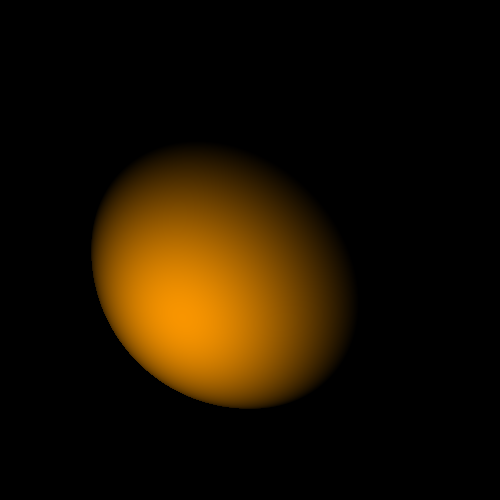
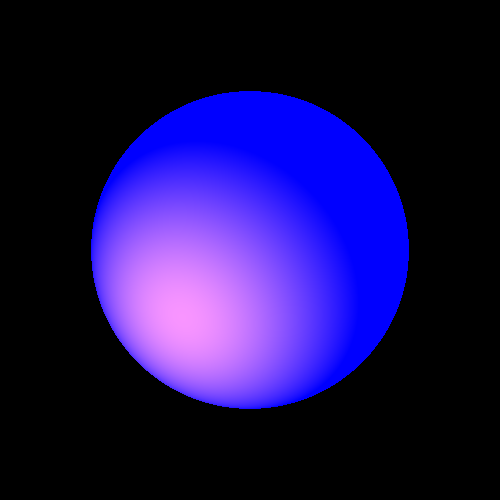
ci

diff --git a/src/renderer/RayTracerBasic.java b/src/renderer/RayTracerBasic.java
@@ -22,24 +22,23 @@ public class RayTracerBasic extends RayTracerBase {
             return scene.background;
         //else
         GeoPoint closestPoint = ray.findClosestGeoPoint(intersections);
-        return calcLocalEffects(closestPoint,ray);
+        return calcColor(closestPoint, ray);
     }
 
 
-    /*private Color calcColor(GeoPoint intersection) {
+    private Color calcColor(GeoPoint intersection, Ray ray) {
         return scene.ambientLight.getIntensity()
-                .add(intersection.geometry.getEmission());
-    }*/
-    private Color calcLocalEffects(GeoPoint intersection, Ray ray) {
-        Vector v = ray.getDir ();
+                .add(intersection.geometry.getEmission())
+// add calculated light contribution from all light sources)
+                .add(calcLocalEffects(intersection, ray));
+    }
 
-        Vector n = intersection.geometry.getNormal(intersection.point);
-        double nv = alignZero(n.dotProduct(v));
-        if (nv == 0)
-            return Color.BLACK;
+    private Color calcLocalEffects(GeoPoint intersection, Ray ray) {
+        Vector v = ray.getDir (); Vector n = intersection.geometry.getNormal(intersection.point);
+        double nv = alignZero(n.dotProduct(v)); if (nv == 0) return Color.BLACK;
         Material material = intersection.geometry.getM();
         int nShininess = material.getnShininess();
-        double kd = material.getkD(), ks = material.getkS();
+        double kd = material.kD, ks = material.kS;
         Color color = Color.BLACK;
         for (LightSource lightSource : scene.lights) {
             Vector l = lightSource.getL(intersection.point);
@@ -53,8 +52,8 @@ public class RayTracerBasic extends RayTracerBase {
         return color;
     }
     public Color calcSpecular(double ks,Vector l,Vector n,Vector v,int nShininess,Color lightIntensity){
-        Vector r=n.scale(l.dotProduct(n)*-2);
-        double factor=v.dotProduct(r)*-1;
+        Vector r = l.subtract(n.scale(2*l.dotProduct(n)));
+        double factor = - v.dotProduct(r);
         return lightIntensity.scale(ks*Math.pow(Math.max(0,factor),nShininess));
     }
 

diff --git a/src/geometries/Sphere.java b/src/geometries/Sphere.java
@@ -9,13 +9,15 @@ import java.util.List;
 import static primitives.Util.alignZero;
 import static primitives.Util.isZero;
 
+import geometries.Intersectable.GeoPoint;
 /**
  * Sphere in the 3D space
  * field1 center - the center point of the Sphere
  * field2 radius - the radius of the Sphere
  */
-public class Sphere extends RadialGeometry {
+public class Sphere extends Geometry {
     final Point3D center;
+    final double radius;
 
     /**
      * creates a new Sphere
@@ -23,7 +25,7 @@ public class Sphere extends RadialGeometry {
      * @param radius - the radius of the Sphere
      */
     public Sphere(double radius, Point3D center) {
-        super(radius);
+        this.radius = radius;
         this.center = center;
     }
 
@@ -45,8 +47,8 @@ public class Sphere extends RadialGeometry {
      */
     @Override
     public Vector getNormal(Point3D p) {
-        Vector v = p.subtract(this.center);
-        return v.normalize();
+        Vector v = p.subtract(this.center).normalize();
+        return v;
     }
 
     //@Override
@@ -88,10 +90,9 @@ public class Sphere extends RadialGeometry {
 //
     //    return  null;
  //   }
-
     @Override
     public List<GeoPoint> findGeoIntersections(Ray ray) {
-        List<GeoPoint> l = null;
+        //List<GeoPoint> l = null;
         Vector u;
 
         try {
@@ -106,7 +107,7 @@ public class Sphere extends RadialGeometry {
         double tm = alignZero(u.dotProduct(v));
         double d = alignZero(Math.sqrt(u.lengthSquared() - tm * tm));
 
-        if(d > this.radius)
+        if(d >= this.radius)
             return  null;
 
         double th = alignZero(Math.sqrt(radius * radius - d * d));

diff --git a/src/geometries/Tube.java b/src/geometries/Tube.java
@@ -11,8 +11,9 @@ import java.util.List;
  * field1 axisRay - the ray around which we built the tube
  * field2 radius - the radius of the tube
  */
-public class Tube extends RadialGeometry {
+public class Tube extends Geometry {
     final Ray axisRay;
+    final double radius;
 
     /**
      * create a new tube
@@ -20,7 +21,7 @@ public class Tube extends RadialGeometry {
      * @param radius - the radius of the tube
      */
     public Tube(Ray axisRay, double radius) {
-        super(radius);
+        this.radius = radius;
         this.axisRay = axisRay;
     }
 
@@ -41,24 +42,21 @@ public class Tube extends RadialGeometry {
      * @param p - the point from where we want calculate the normal of the tube
      * @return the normal to the tube in p
      */
-    @Override
     public Vector getNormal(Point3D p) {
         Vector P_P0 = p.subtract(this.axisRay.getP0());
         double t = this.axisRay.getDir().dotProduct(P_P0);
 
         Point3D O = this.axisRay.getP0().add(axisRay.getDir().scale(t));
-        Vector N = p.subtract(O);
+        Vector N = p.subtract(O).normalize();
 
-        return N.normalize();
+        return N;
     }
 
-    @Override
     public List<Point3D> findIntersections(Ray ray) {
         return null;
     }
 
-    @Override
-    public List<GeoPoint> findGeoIntersections(Ray ray) {
+    public List<Intersectable.GeoPoint> findGeoIntersections(Ray ray) {
         return null;
     }
 }

diff --git a/src/scene/Scene.java b/src/scene/Scene.java
@@ -12,7 +12,7 @@ import java.util.List;
 public class Scene {
     private final String name;
     public Color background = Color.BLACK;
-    public AmbientLight  ambientLight = new AmbientLight(new Color(192, 192, 192), 1.d);
+    public AmbientLight  ambientLight = new AmbientLight(Color.BLACK, 1.d);
     public Geometries geometries = new Geometries();
     public List<LightSource> lights = new LinkedList<LightSource>();
     public Scene(sceneBuilder sb) {
@@ -43,7 +43,7 @@ public class Scene {
     {
         private final String name;
         public Color background = Color.BLACK;
-        public AmbientLight  ambientLight = new AmbientLight(new Color(192, 192, 192), 1.d);
+        public AmbientLight  ambientLight = new AmbientLight(Color.BLACK, 1.d);
         public Geometries geometries = new Geometries();
         public List<LightSource> lights = new LinkedList<LightSource>();
 

diff --git a/src/elements/DirectionalLight.java b/src/elements/DirectionalLight.java
@@ -7,7 +7,7 @@ public class DirectionalLight extends Light implements LightSource{
 
     public DirectionalLight(Color c, Vector direction) {
         super(c);
-        this.direction = direction.normalize();
+        this.direction = direction.normalized();
     }
 
     @Override
@@ -17,6 +17,6 @@ public class DirectionalLight extends Light implements LightSource{
 
     @Override
     public Vector getL(Point3D p) {
-        return direction.scale(-1).normalized();
+        return direction;
     }
 }

diff --git a/Tests/lights/LightsTests.java b/Tests/lights/LightsTests.java
@@ -55,8 +55,8 @@ public class LightsTests {
 	@Test
 	public void spherePoint() {
 		scene1.geometries.add(sphere);
-		scene1.lights.add(new PointLight.PointLightBuilder( new Point3D(-50, -50, 50),new Color(500, 300, 0))//
-				.KL(0.00001).KQ(0.000001).build());
+		scene1.lights.add(new PointLight(new Color(500, 300, 0), new Point3D(-50, -50, 50))//
+				.setKl(0.00001).setKq(0.000001));
 
 		ImageWriter imageWriter = new ImageWriter("lightSpherePoint", 500, 500);
 		Render render = new Render()//

diff --git a/src/elements/SpotLight.java b/src/elements/SpotLight.java
@@ -17,11 +17,7 @@ public class SpotLight extends PointLight{
     @Override
     public Color getIntensity(Point3D p) {
 
-        return super.getIntensity(p).scale(max(0,dir.dotProduct(getVecFromPos(p))));//mult. by the dot prod or 0
+        return super.getIntensity(p).scale(max(0,dir.dotProduct(getVecFromPos(p)))); //mult. by the dot prod or 0
     }
 
-    @Override
-    public Vector getL(Point3D p) {
-        return getVecFromPos(p);
-    }
 }

diff --git a/src/geometries/Triangle.java b/src/geometries/Triangle.java
@@ -60,7 +60,7 @@ public class Triangle extends Polygon {
             return null;
         Point3D p0 = ray.getP0();
         Vector v = ray.getDir();
-        intersections.get(0). geometry = this;
+        intersections.get(0).geometry = this;
         Vector v1 = this.vertices.get(0).subtract(p0);
         Vector v2 = this.vertices.get(1).subtract(p0);
         Vector v3 = this.vertices.get(2).subtract(p0);

diff --git a/src/elements/PointLight.java b/src/elements/PointLight.java
@@ -26,7 +26,7 @@ public class PointLight extends Light implements LightSource{
         double d= p.distance(position);
         double ds= p.distanceSquared(position);
 
-        return super.getIntensity().scale(1/(Kc+Kl*d+Kq*ds));
+        return super.getIntensity().reduce(Kc+Kl*d+Kq*ds);
     }
 
     public PointLight setPosition(Point3D position) {

diff --git a/src/primitives/Material.java b/src/primitives/Material.java
@@ -3,8 +3,8 @@ package primitives;
 import java.lang.reflect.MalformedParametersException;
 
 public class Material {
-    public double kD,kS;
-    public int nShininess;
+    public double kD=0,kS=0;
+    public int nShininess=0;
 
     /**
      *
